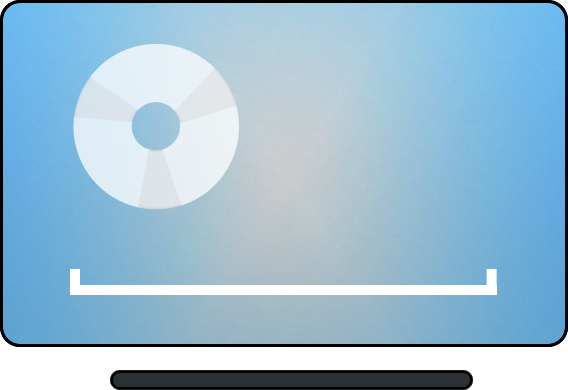
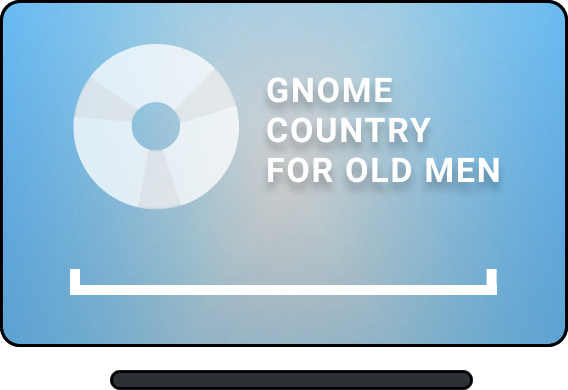
mildly improved dvd screen

Changed region(s): [[0.4489, 0.1846, 0.7782, 0.3692], [0.4489, 0.4, 0.8979, 0.4923]]

diff --git a/core/src/edu/cornell/gdiac/mangosnoops/GameplayController.java b/core/src/edu/cornell/gdiac/mangosnoops/GameplayController.java
@@ -201,7 +201,7 @@ public class GameplayController {
 	/** Touchscreen */
 	private static final String ON_TOUCHSCREEN_FILE = "images/DashHUD/ontouchscreen.png";
 	private static final String OFF_TOUCHSCREEN_FILE = "images/DashHUD/offtouchscreen.png";
-	private static final String DVD_SLOT_FILE = "images/DashHUD/dvdslot.png";
+	private static final String DVD_SLOT_FILE = "images/MovieScreenAssets/moviebackground.png";
 	/** Billboards */
 	private static final String BILLBOARD_END_IS_NEAR_FILE = "images/billboards/the_end_is_near.png";
 	private static final String BILLBOARD_GRILL_FILE = "images/billboards/aGrillYouCanTrust.png";
@@ -860,7 +860,7 @@ public class GameplayController {
 				radioSoundOff, radioNedLike, radioNedDislike, radioNoshLike,
 				radioNoshDislike, songs);
 		dvdPlayer = new DvdPlayer();
-		touchscreen = new TouchScreen(radio, dvdPlayer, onTouchscreen, offTouchscreen);
+		touchscreen = new TouchScreen(radio, dvdPlayer, onTouchscreen, offTouchscreen, dvdSlot);
 		masterShaker = new Image();
         sunShine = false;
 		yonda.getNosh().setChildFilmStrip(noshTexture, NOSH_FILMSTRIP_ROWS, NOSH_FILMSTRIP_COLS);
@@ -1503,7 +1503,7 @@ public class GameplayController {
 		droppedPos = inputController.getClickPos();
 	}
 
-	public void draw(GameCanvas canvas, BitmapFont font) {
+	public void draw(GameCanvas canvas) {
 
 	    canvas.setCameraFOV(road.getSpeedRatio());
 
@@ -1516,7 +1516,7 @@ public class GameplayController {
 			if (!i.getName().equals(EXIT_SIGN)) {
 				i.draw(canvas, roadsideTexs.get(i.getName()));
 			} else {
-				i.draw(canvas, roadsideTexs.get(i.getName()), font);
+				i.draw(canvas, roadsideTexs.get(i.getName()), displayFont);
 			}
 
 		}
@@ -1546,7 +1546,7 @@ public class GameplayController {
 		wheel.draw(canvas);
 
 		// Touchscreen
-		touchscreen.draw(canvas, font);
+		touchscreen.draw(canvas, displayFont);
 
 		// Horn
 		horn.draw(canvas, wheel.getAng());
@@ -1579,7 +1579,7 @@ public class GameplayController {
 		}
 
 		// Draw speech bubbles for music requests if necessary
-		speechBubble(canvas, font);
+		speechBubble(canvas, displayFont);
 
 		//Draw sun effect part 2
 		visor.drawSunB(canvas, sunShine);
@@ -1588,6 +1588,6 @@ public class GameplayController {
 		visor.draw(canvas);
 
 
-		satQuestions.draw(canvas, font);
+		satQuestions.draw(canvas, displayFont);
 	}
 }

diff --git a/core/src/edu/cornell/gdiac/mangosnoops/hudentity/TouchScreen.java b/core/src/edu/cornell/gdiac/mangosnoops/hudentity/TouchScreen.java
@@ -15,9 +15,10 @@ public class TouchScreen {
     private DvdPlayer dvdPlayer;
     private GameCanvas c;
 
-    public TouchScreen(Radio r, DvdPlayer d, Texture ons, Texture ofs) {
+    public TouchScreen(Radio r, DvdPlayer d, Texture ons, Texture ofs, Texture dvd) {
         onScreen = new Image(0.83f, 0.22f, 0.33f, 0.05f, ons, GameCanvas.TextureOrigin.MIDDLE);
         offScreen = new Image(0.83f, 0.22f, 0.33f, 0.05f, ofs, GameCanvas.TextureOrigin.MIDDLE);
+        dvdScreen = new Image(0.83f, 0.22f, 0.33f, 0.05f, dvd, GameCanvas.TextureOrigin.MIDDLE);
         radio = r;
         dvdPlayer = d;
     }
@@ -43,6 +44,7 @@ public class TouchScreen {
         onScreen.draw(canvas);
         //Draw screens
         if(dvdPlayer.isPlayingDvd()) {
+            dvdScreen.draw(canvas);
             dvdPlayer.draw(canvas, displayFont);
         } else {
             if(radio.getNumStations() == 0) offScreen.draw(canvas);

diff --git a/core/src/edu/cornell/gdiac/mangosnoops/hudentity/DvdPlayer.java b/core/src/edu/cornell/gdiac/mangosnoops/hudentity/DvdPlayer.java
@@ -50,12 +50,7 @@ public class DvdPlayer {
 
     public void draw(GameCanvas canvas, BitmapFont displayFont) {
         displayFont.setColor(Color.WHITE);
-        if(dvdPlayingTitle == null) {
-            canvas.drawTextCenterOriginShake("No DVD Inserted.\n", displayFont, 0.85f, 0.24f);
-            canvas.drawTextCenterOriginShake("\nPlease insert the DVD.", displayFont, 0.85f, 0.24f);
-        } else {
-            canvas.drawTextCenterOriginShake(dvdPlayingTitle, displayFont, 0.85f, 0.24f);
-            canvas.drawTextCenterOriginShake("\n\nTime Remaining: " + timeLeft, displayFont, 0.85f, 0.24f);
-        }
+//            canvas.drawTextCenterOriginShake(dvdPlayingTitle, displayFont, 0.85f, 0.24f);
+            canvas.drawTextCenterOriginShake("\nTime Remaining: " + timeLeft, displayFont, 0.85f, 0.24f);
     }
 }

diff --git a/core/src/edu/cornell/gdiac/mangosnoops/GameMode.java b/core/src/edu/cornell/gdiac/mangosnoops/GameMode.java
@@ -1136,7 +1136,7 @@ public class GameMode implements Screen {
 
 		// ** Draw HUD stuff **
 		canvas.beginHUDDrawing();
-		gameplayController.draw(canvas, displayFont);
+		gameplayController.draw(canvas);
 
 		// Draw fade out to rest stop
 		if (gameplayController.getRoad().reachedEndOfLevel() && !exitToRestStop) {

diff --git a/core/src/edu/cornell/gdiac/mangosnoops/TutorialController.java b/core/src/edu/cornell/gdiac/mangosnoops/TutorialController.java
@@ -516,7 +516,7 @@ public class TutorialController extends GameplayController {
     }
 
     public void draw(GameCanvas canvas) {
-        super.draw(canvas, displayFont);
+        super.draw(canvas);
         tutHealth.draw(canvas);
         tutKeys.draw(canvas);
         tutGauge.draw(canvas);
